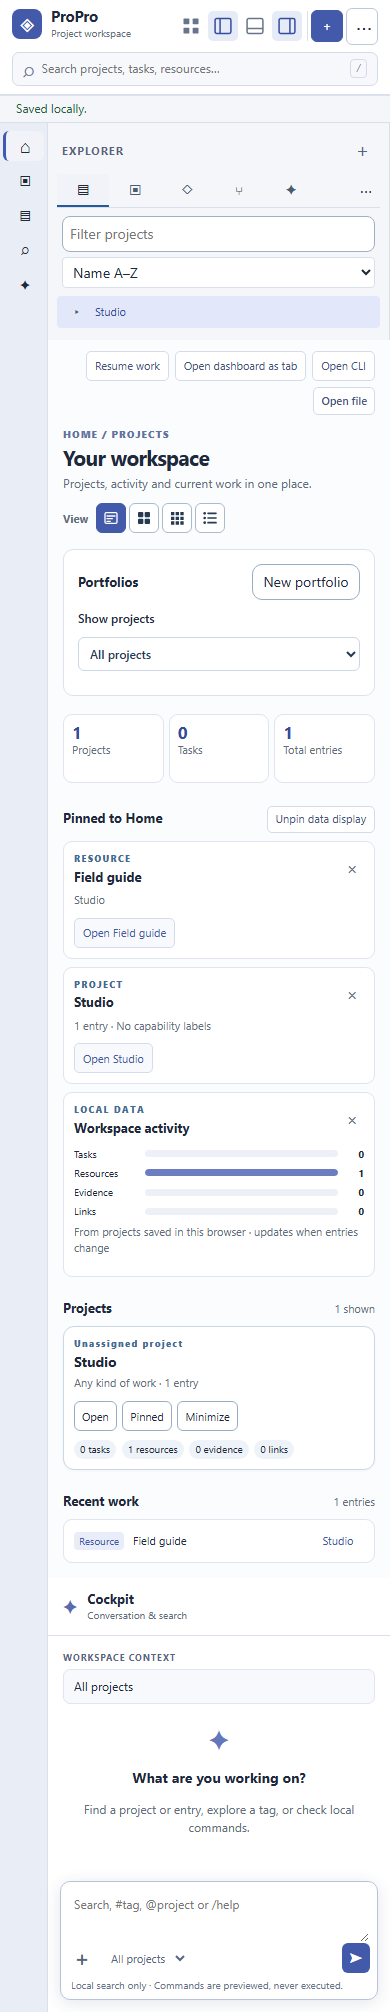
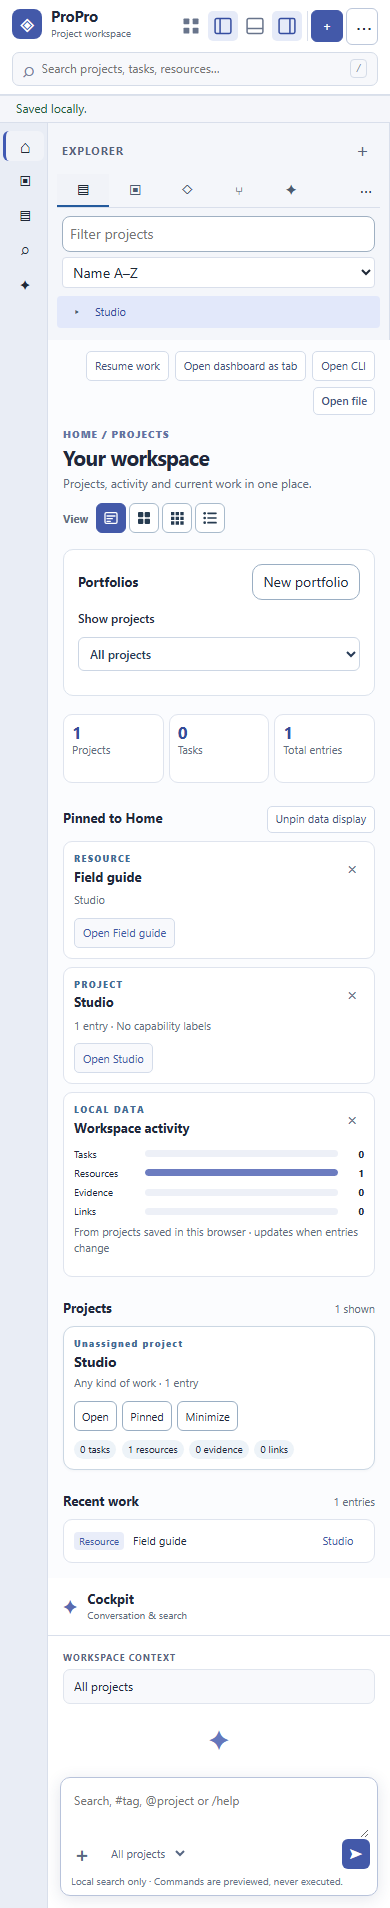
Keep the conversation composer inside its pane above bottom tools
Change-Level: RUN
Dev-Docs: updated
Reason: Fix owner-reported composer overlap and document proposed pane workflows

diff --git a/index.html b/index.html
@@ -17,7 +17,7 @@
   <main id="workbench" aria-label="Project workspace">
     <aside id="explorer" aria-label="Workspace explorer"><div class="explorer-head"><h2>Explorer</h2><button type="button" data-new aria-label="Add project" title="Add project">＋</button></div><div id="tabbed-explorer"></div><p class="hint">Projects are saved locally. Files stay in this page session.</p></aside>
     <section id="content" aria-label="Project dashboard"><div class="content-head"><div><p class="eyebrow">HOME / PROJECTS</p><h2 id="dashboard-heading" tabindex="-1">Your workspace</h2><p id="project-count" class="muted"></p></div><div class="layout-picker"><span class="layout-picker__label" id="layout-label">View</span><div class="view-switch" role="group" aria-labelledby="layout-label"><button type="button" data-mode="large" aria-label="Large tiles" title="Large tiles"><svg viewBox="0 0 24 24" aria-hidden="true" focusable="false"><rect x="3" y="4" width="18" height="16" rx="2" fill="none" stroke="currentColor" stroke-width="2"/><path d="M6 9h12M6 13h8M6 17h5" fill="none" stroke="currentColor" stroke-width="2" stroke-linecap="round"/></svg></button><button type="button" data-mode="mini" aria-label="Mini tiles" title="Mini tiles"><svg viewBox="0 0 24 24" aria-hidden="true" focusable="false"><rect x="3" y="3" width="8" height="8" rx="1.5"/><rect x="13" y="3" width="8" height="8" rx="1.5"/><rect x="3" y="13" width="8" height="8" rx="1.5"/><rect x="13" y="13" width="8" height="8" rx="1.5"/></svg></button><button type="button" data-mode="grid" aria-label="Grid tiles" title="Grid tiles"><svg viewBox="0 0 24 24" aria-hidden="true" focusable="false"><path d="M3 3h5v5H3zm7 0h5v5h-5zm7 0h5v5h-5zM3 10h5v5H3zm7 0h5v5h-5zm7 0h5v5h-5zM3 17h5v5H3zm7 0h5v5h-5zm7 0h5v5h-5z"/></svg></button><button type="button" data-mode="list" aria-label="List tiles" title="List tiles"><svg viewBox="0 0 24 24" aria-hidden="true" focusable="false"><circle cx="4" cy="5" r="2"/><circle cx="4" cy="12" r="2"/><circle cx="4" cy="19" r="2"/><path d="M9 5h12M9 12h12M9 19h12" fill="none" stroke="currentColor" stroke-width="2.5" stroke-linecap="round"/></svg></button></div></div></div><section id="portfolios-home" class="portfolios-home" aria-label="Portfolios"></section><div id="overview-stats" class="overview-stats" aria-label="Workspace overview"></div><div class="section-head"><h3>Projects</h3><span id="section-count"></span></div><div id="cards" class="cards"></div><section id="recent-work" class="recent-work" aria-label="Recent work"></section><div id="detail"></div></section>
-    <aside id="context" aria-label="Conversation and search"><div class="context-head"><span class="context-icon" aria-hidden="true">✦</span><div><h2>Cockpit</h2><p>Conversation &amp; search</p></div></div><div class="context-content"><p class="context-eyebrow">WORKSPACE CONTEXT</p><div id="context-project" class="context-project">All projects</div><div class="context-welcome"><span class="context-spark" aria-hidden="true">✦</span><h3>What are you working on?</h3><p>Find a project or entry, explore a tag, or check local commands.</p></div><div id="composer-results" role="status" aria-live="polite"></div></div><form id="composer" class="composer"><label for="composer-input" class="sr-only">Ask or search workspace</label><textarea id="composer-input" rows="2" placeholder="Search, #tag, @project or /help"></textarea><div id="composer-suggestions" class="composer-suggestions" role="group" aria-label="Composer suggestions"></div><div id="composer-attachments" class="composer-attachments"></div><div class="composer-tools"><label class="attach-button" title="Add attachment" aria-label="Add attachment">＋<input id="composer-files" type="file" multiple></label><select id="composer-scope" aria-label="Search scope"><option value="all">All projects</option><option value="projects">Projects</option><option value="entries">Entries</option></select><button type="submit" class="composer-submit" aria-label="Search workspace" title="Search workspace">➤</button></div><p class="composer-note">Local search only · Commands are previewed, never executed.</p></form></aside>
+    <aside id="context" aria-label="Conversation and search"><div class="context-head"><span class="context-icon" aria-hidden="true">✦</span><div><h2>Cockpit</h2><p>Conversation &amp; search</p></div></div><div class="context-content" tabindex="0" role="region" aria-label="Conversation content"><p class="context-eyebrow">WORKSPACE CONTEXT</p><div id="context-project" class="context-project">All projects</div><div class="context-welcome"><span class="context-spark" aria-hidden="true">✦</span><h3>What are you working on?</h3><p>Find a project or entry, explore a tag, or check local commands.</p></div><div id="composer-results" role="status" aria-live="polite"></div></div><form id="composer" class="composer"><label for="composer-input" class="sr-only">Ask or search workspace</label><textarea id="composer-input" rows="2" placeholder="Search, #tag, @project or /help"></textarea><div id="composer-suggestions" class="composer-suggestions" role="group" aria-label="Composer suggestions"></div><div id="composer-attachments" class="composer-attachments"></div><div class="composer-tools"><label class="attach-button" title="Add attachment" aria-label="Add attachment">＋<input id="composer-files" type="file" multiple></label><select id="composer-scope" aria-label="Search scope"><option value="all">All projects</option><option value="projects">Projects</option><option value="entries">Entries</option></select><button type="submit" class="composer-submit" aria-label="Search workspace" title="Search workspace">➤</button></div><p class="composer-note">Local search only · Commands are previewed, never executed.</p></form></aside>
   </main>
   <dialog id="project-dialog" aria-labelledby="create-heading"><form id="project-form" class="stack"><h2 id="create-heading">Create project</h2><label>Project name<input name="name" maxlength="200" required placeholder="e.g. Neighborhood garden"></label><fieldset><legend>Capabilities (optional)</legend><div id="create-caps" class="cap-options"></div></fieldset><div class="row"><button class="primary" type="submit">Create project</button><button id="cancel-project" type="button">Cancel</button></div></form></dialog>
   <dialog id="portfolio-dialog" aria-labelledby="portfolio-heading"><form id="portfolio-form" class="stack"><h2 id="portfolio-heading">Create portfolio</h2><label>Portfolio name<input name="name" maxlength="200" required></label><div class="row"><button class="primary" type="submit">Save portfolio</button><button id="cancel-portfolio" type="button">Cancel</button></div></form></dialog>

diff --git a/styles.css b/styles.css
@@ -223,3 +223,18 @@ body { background:#f5f6fa; }
   #workbench > .cockpit-workbench__activity { grid-column:1; grid-row:1 / span 3; }
 }
 .portfolios-home{margin:12px 0 18px;padding:14px;border:1px solid #dce3ed;border-radius:10px;background:#fff}.portfolio-filter-label{display:flex;align-items:center;gap:10px;font-size:12px;margin:10px 0}.portfolio-filter-label select,.portfolio-membership select{min-width:0;max-width:100%;padding:7px;border:1px solid #ccd6e4;border-radius:6px;background:#fff;color:#273b57}.portfolio-list{display:flex;flex-wrap:wrap;gap:9px}.portfolio-card{display:flex;max-width:100%;border:1px solid #dce3ee;border-radius:8px;overflow:hidden}.portfolio-card button{min-width:0;overflow-wrap:anywhere;white-space:normal;border:0;padding:9px;background:#f5f7fb;color:#354968;cursor:pointer;font-size:12px}.portfolio-card button[aria-pressed=true]{background:#e4ecff}.portfolio-card span{display:block;font-size:10px;color:#63728b;margin-top:3px}.portfolio-card button+button{border-left:1px solid #dce3ee}.portfolio-membership{display:flex;align-items:end;flex-wrap:wrap;gap:10px;margin-bottom:16px}.portfolio-membership label{display:grid;gap:5px;min-width:0;font-size:12px}.portfolio-membership button{padding:7px 10px;border:1px solid #ccd6e4;border-radius:6px;background:#fff;cursor:pointer}#portfolio-dialog{width:min(440px,calc(100vw - 30px));border:1px solid #ccd6e4;border-radius:12px;padding:22px}#portfolio-dialog input{width:100%;min-width:0;padding:9px}#portfolio-dialog::backdrop{background:#20304466}@media(max-width:500px){.portfolio-filter-label{align-items:flex-start;flex-direction:column}.portfolio-card{width:100%}.portfolio-card button:first-child{flex:1}.portfolio-filter-label select{width:100%}.portfolio-membership{align-items:stretch;flex-direction:column}}
+/* The host owns composer sizing inside the reusable workbench context slot. */
+#context.cockpit-workbench__context { min-height:0; overflow:hidden; }
+#context .context-head { flex:0 0 auto; }
+#context .context-content { flex:1 1 0; min-height:0; min-width:0; overscroll-behavior:contain; }
+#context .composer { flex:0 0 auto; min-width:0; }
+#context .composer textarea { max-height:140px; overflow-y:auto; }
+#context .composer-attachments { max-height:48px; overflow-y:auto; }
+@media(min-width:1051px) {
+  /* Keep a usable conversation row when the bottom panel is maximized.
+     Short windows may scroll the page instead of overlapping the two panes. */
+  #workbench.has-bottom { min-height:max(540px,calc(var(--cockpit-bottom-height,240px) + 366px)); }
+}
+@media(max-width:1050px) { #context.cockpit-workbench__context { min-height:330px; } }
+#context .composer-suggestions { overflow-y:auto; overscroll-behavior:contain; }
+#context .context-content:focus-visible { outline:2px solid var(--blue); outline-offset:-2px; }

diff --git a/docs/PANE-WORKFLOWS.md b/docs/PANE-WORKFLOWS.md
@@ -1,0 +1,43 @@
+# Pane workflows
+
+Status: proposed product direction for owner review, November 7, 2026. Only the conversation containment correction is implemented by this change.
+
+## Current behavior
+
+The right pane currently provides local project/entry search, tag/reference suggestions, attachment selection without upload, and informational command previews. It is not yet an AI conversation or an internal project assistant. The bottom pane currently contains a CLI scratchpad that previews commands, local data-loading problems, and browser-local notes. It is not a terminal.
+
+## Proposed roles
+
+| Area | Primary purpose | Useful surfaces |
+| --- | --- | --- |
+| Center | Work being edited or reviewed | Project records, portfolios, documents, deliverables, evidence |
+| Right | Focused conversation with one selected agent environment | Independent Codex / Claude / other connected agent sessions; project context; proposed actions and approval requests |
+| Bottom | Work running alongside the conversation and its results | Terminal sessions; agent jobs and logs; test/build results; Lasso multi-agent comparison, consensus, merge, and plan-role workspace |
+
+Agent tabs should represent actual connected environments, not misleading provider names attached to an unconnected text box. Each environment needs explicit session identity, context, connection status, and conversation history. Changing tabs must preserve drafts and state. A compact Lasso session could also be selectable on the right; opening its full workspace below must observe the same session rather than dispatch a second copy of the task.
+
+## Conversation versus internal assistant
+
+A conversation is the interaction surface. An internal project assistant is a role with project knowledge and explicitly authorized tools. They can use the same agent connection and session system. A chat-only connection may discuss a project without changing it; an assistant can propose and, when authorized, perform project operations. These permissions must be visible and independent of where the UI is docked. A second hidden autonomous assistant is not implied.
+
+## Lasso evidence and boundary
+
+Read-only source inspection: `C:/dev/lasso/README.md` describes existing CLI dispatch, saved sessions, export, and Parallel/Merge/Consensus/Plan-Role modes. `extension/src/extension.js` describes its VS Code sidebar and editor hosts embedding the same existing frontend. This supports evaluating a bounded integration, not claiming ProPro compatibility or authorizing code transfer.
+
+Before integration, confirm the supported embedding/session interface, authentication, dispatch permissions, session persistence, and source/licensing boundary. Preserve Lasso's ownership of multi-agent coordination and ProPro's ownership of project records. Lasso's adjacent eco references do not expand ProPro into ECO/eOS or establish a dependency on that runtime.
+
+## Suggested implementation order
+
+1. Correct conversation containment and independent content scrolling (implemented; regression test added).
+2. Define and connect one real right-pane agent environment, with persistent session and draft state; then add switching between independently connected agents.
+3. Define local terminal access as a separately authorized execution capability, with real sessions, working-directory identity, stop controls, and reconnect behavior. Keep command preview labeled until then.
+4. Integrate an existing Lasso session view in the bottom pane while a right-pane conversation remains active; evaluate compact right-pane access to that same session.
+5. Add job/output/approval views as real workflows require them. Preserve the existing Notes capability; do not add more decorative placeholder tabs.
+
+Media playback or Spotify can be an optional dockable utility later. They do not belong in standalone MVP acceptance gates. Dock location, media control, and provider integrations must remain optional.
+
+## Layout correction
+
+The context body can shrink and scroll independently; the composer stays inside the context pane. Textarea and attachment growth are bounded. A maximized bottom panel retains a usable top conversation row; short desktop windows may scroll the page instead of allowing panes to overlap. Narrow screens retain stacked panes. No Cockpit GUI package or Lasso source was changed.
+
+Verified locally: the new browser regression reproduced the original composer overflow before the fix and passes afterward. It checks containment, independent content scrolling, maximum bottom height, laptop/desktop sizes, swapped side panes, draft preservation on pane toggles, and narrow reflow. All 6 model tests and 15 Chromium browser tests pass, including automated axe checks. The scrolling context region is keyboard-focusable and labeled. Existing bottom-panel reference captures were refreshed. Source inspection of Lasso is not an integration test or a compatibility claim.

diff --git a/README.md b/README.md
@@ -10,6 +10,8 @@ ProPro is an adaptable project portal for construction, research, freelance, cre
 
 Current portfolio follow-up (November 7, 2026): the active checkout adds a browser-local portfolio creation, rename, membership, Home filtering, and Explorer grouping candidate. Existing version 1 project records remain compatible. See [portfolio scope and data contract](docs/PORTFOLIO-SLICE.md). Owner acceptance is still open; this note supersedes the feature-branch wording above for the current checkout and does not declare a release.
 
+Pane follow-up (November 7, 2026): the conversation composer is contained above the bottom panel while context content scrolls independently. [Pane workflow proposals](docs/PANE-WORKFLOWS.md) preserve the suggested agent tabs, internal-assistant role, Lasso workspace, real terminal, and optional media utilities. These integrations are proposals; the current right pane remains local search and the CLI scratchpad remains command preview.
+
 - [Product charter](docs/PRODUCT-CHARTER.md)
 - [ProPro-001 scope and exit criteria](docs/PROPRO-001.md)
 
